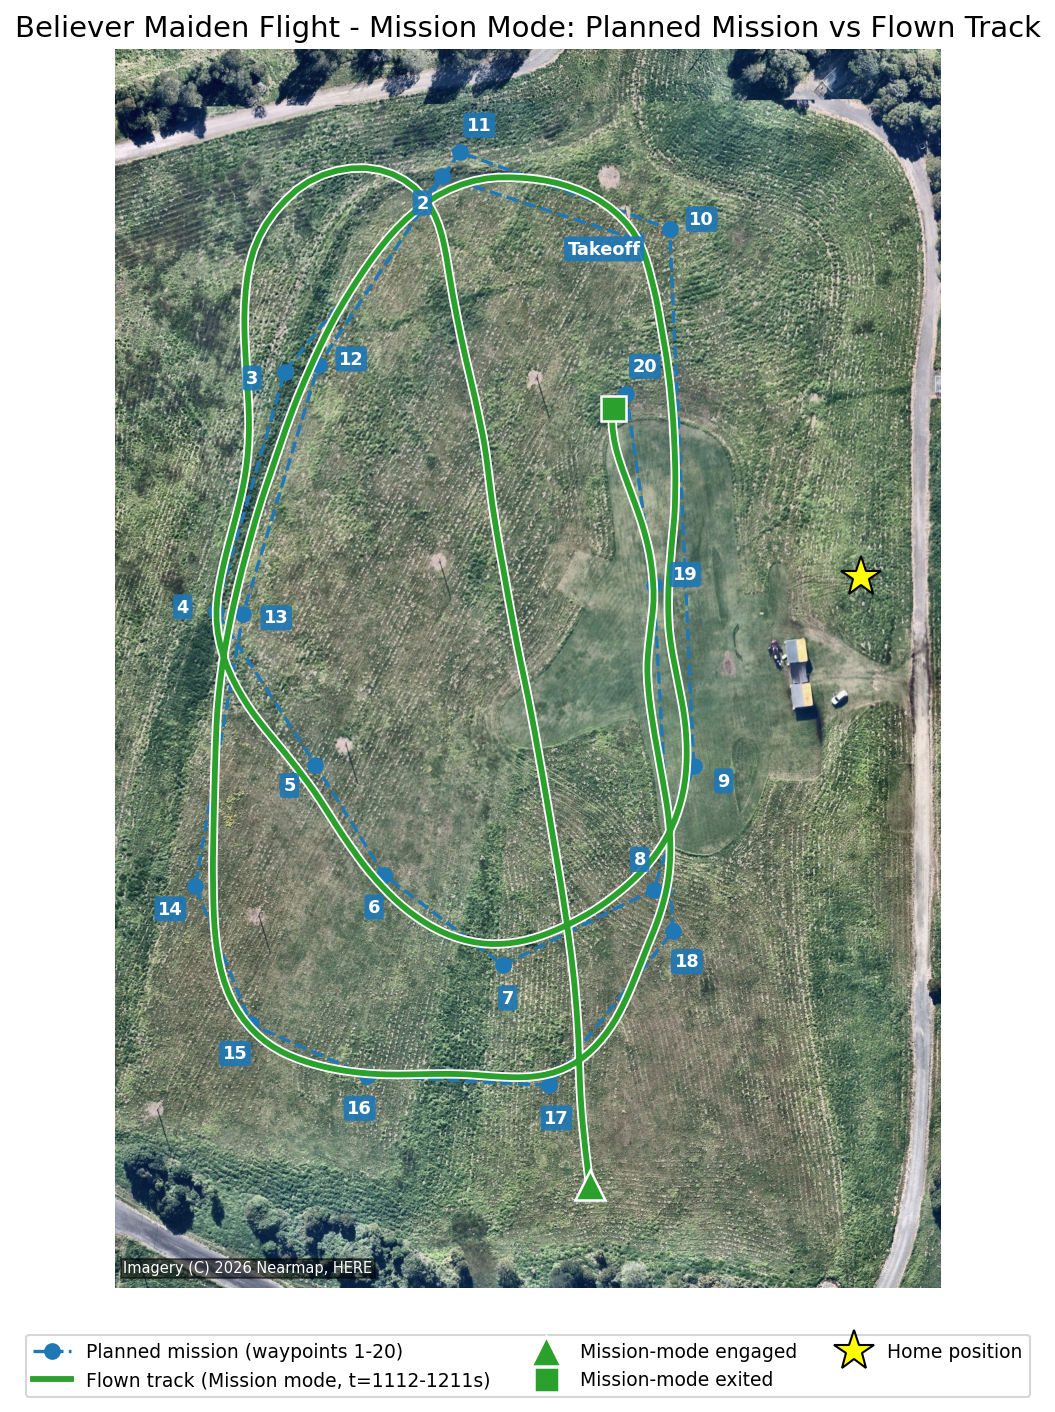
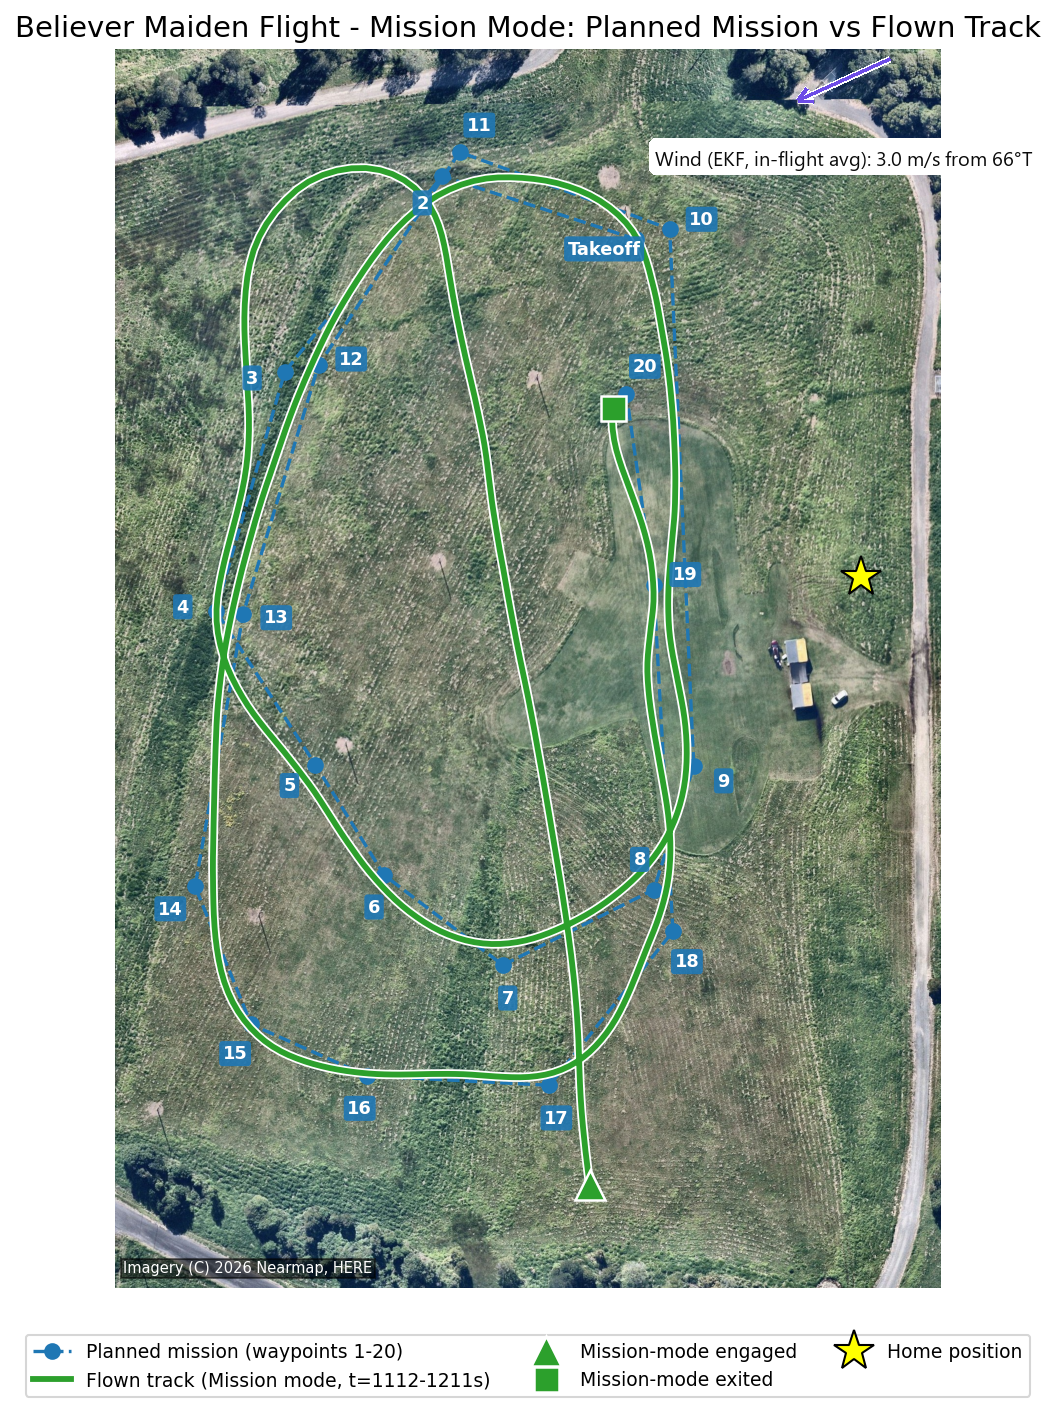
Add the EKF's in-flight-averaged wind vector to the mission-mode plot
Per Julian - annotated the mission-mode planned-vs-actual plot with
PX4's wind estimate (2.96 m/s from 066 deg T), vector-averaged over
the in-flight period only.

Checked the hypothesis that the estimate gets more accurate as the
flight progresses against the EKF's own variance fields rather than
assuming it: doesn't hold up cleanly, variance doesn't converge much
over the flight and the per-sample direction swings over 100 degrees
across different portions of it. Used a proper vector average
(component-wise) instead of averaging the end of the flight alone.

Also corrected the averaging window per Julian's catch: ground time
before takeoff-detected and after landing-detected is excluded, since
the estimator isn't meaningfully running while stationary (confirmed
it reads exactly zero pre-launch, not biased noise) - though in this
case it barely moved the number (2.90 to 2.96 m/s).

Added a cross-reference note in the test report's Mission mode
section and a new open item for cross-checking this estimate against
an independent ground wind measurement, which doesn't exist in the
repo yet.

Changed region(s): [[0.6066, 0.0623, 0.91, 0.1246], [0.7886, 0.0312, 0.8493, 0.0623], [0.9403, 0.0935, 0.9706, 0.1246]]

diff --git a/AI-context/CHANGELOG.md b/AI-context/CHANGELOG.md
@@ -3,6 +3,7 @@
 All notable changes to the Believer project repo are logged here, most recent first.
 
 ## 2026-10-15
+- Added the PX4 EKF's in-flight-averaged wind estimate (2.96 m/s from 066°T) as an arrow annotation on `docs/assets/test-plots/mission-mode-planned-vs-actual-2026-10-11.png`, per Julian. Checked his hypothesis that the estimate gets more accurate as the flight progresses against the EKF's own variance fields first - it doesn't hold up cleanly: variance doesn't converge much over the flight, and the per-sample direction estimate swings over 100° across different portions of it, so there's no strong basis for trusting the end of the flight over any other window. Used a proper vector average (component-wise, not an average of angles) instead. Also corrected the averaging window on Julian's catch: the raw wind estimate is exactly zero during the pre-launch ground-holding period (the estimator isn't meaningfully running while stationary, not biased noise) - excluded ground time before takeoff-detected and after landing-detected, though in this case it barely moved the number (2.90 to 2.96 m/s). Added a cross-reference note to `docs/engineering/test-reports/2026-10-11-maiden-flight.md`'s Mission mode section, and a new `AI-context/open-items.md` item for cross-checking this estimate against an independent ground wind measurement, which doesn't exist in the repo yet.
 - Added a GPS-speed-vs-airspeed cross-check to `docs/engineering/test-reports/2026-10-11-maiden-flight.md` (new section, after "Airspeed validator latched invalid"), per Julian: GPS speed (3D groundspeed magnitude from `vehicle_gps_position`) runs systematically above the raw-sensor indicated airspeed, mean +4.53 m/s (std 2.81) - confirmed as wind, not a fault, by cross-checking against PX4's own independent wind estimate (`airspeed_wind`, actively updating throughout the flight, mean 3.88 m/s, same ballpark). The heading trace also showed the aircraft spent most of the flight in sustained circular flight (consistent with the known `NAV_LOITER_RAD` = 50m loiter configuration), which is favourable for the EKF's wind observability. Confirmed precisely, from the log's own `commander` messages, that the near-zero stretch at the start of the plot is the handler holding the aircraft before the throw: armed at t=0.11s, `Takeoff detected` at t=32.73s (matching the existing Launch section's t=32.6s). Added the supporting static plot (`docs/assets/test-plots/maiden-flight-gps-vs-airspeed-2026-10-11.png`) and a self-contained, fully offline interactive version of the same chart (`.html`, Plotly, zoom/hover, embedded data and library - no external hosting) alongside it. An earlier attempt published this as an externally-hosted claude.ai artifact; Julian flagged that hosting location as inappropriate for this repo (not the use of HTML itself), so it was deleted and rebuilt as a local, git-tracked file instead. Caught and fixed a real bug along the way: `log.start_timestamp` isn't guaranteed to be at or before every topic's first sample (the GPS topic's first sample here predated it by ~0.1ms), and subtracting it from a `uint64` timestamp array that starts earlier wraps around silently - broke `np.interp`'s monotonicity assumption and produced a nonsense first-pass result (-13 m/s mean difference instead of the correct +4.53 m/s). Fixed by using the true minimum timestamp across the topics actually in use, with a monotonicity assertion as a guard.
 
 ## 2026-10-13

diff --git a/docs/engineering/test-reports/2026-10-11-maiden-flight.md b/docs/engineering/test-reports/2026-10-11-maiden-flight.md
@@ -169,9 +169,11 @@ No control surface (`MAIN1`/`MAIN2` V-tail, `MAIN3`/`MAIN5` ailerons) was pegged
 
 **The uploaded mission was replanned at the field and no longer matches the repo's backup.** The real mission (recovered from the Pixhawk's onboard mission storage and cross-checked against the flight's own telemetry to sub-metre precision) has 28 items, not the 32 in `docs/operations/backups/Pixhawk Mission Backup/maiden-mission.plan` (Section 5 of the test plan): item 0 is a camera-mode setup command (no coordinates); item 1 is Takeoff; items 2-20 are 19 waypoints, all at **50m relative altitude** (not 40m as the stale backup has it); items 21-25 are a landing-sequence marker plus speed/camera commands (no coordinates); item 26 is a Loiter-to-Alt descent point 405m from the pattern; item 27 is an actual **Land** item. The old backup's "no landing item" description no longer applies to what's on the aircraft.
 
-![Planned mission (waypoints 1-20) vs actual flown track, overlaid on Nearmap aerial imagery of the BNEMAC field (captured 2026-06-22)](../../assets/test-plots/mission-mode-planned-vs-actual-2026-10-11.png)
+![Planned mission (waypoints 1-20) vs actual flown track, overlaid on Nearmap aerial imagery of the BNEMAC field (captured 2026-06-22), with the in-flight-averaged wind vector annotated](../../assets/test-plots/mission-mode-planned-vs-actual-2026-10-11.png)
 
 The flown track (green) tracks the real mission (blue) closely - mean deviation 17.7m, well within normal fixed-wing turn/overshoot tolerance. The long diagonal leg from the "Mission-mode engaged" marker (bottom) up to the pattern is expected PX4 behaviour, not an anomaly: the aircraft was already airborne and physically near waypoints 15-17 when Mission mode was engaged, and PX4 resumed at waypoint 2 (the first real waypoint after Takeoff) rather than restarting from the ground - so it had to transit across the pattern to reach it first.
+
+The arrow annotated on the plot is the PX4 EKF's own wind estimate (`airspeed_wind`), vector-averaged over the in-flight period only (takeoff detected to landing detected - ground time before and after excluded, since the estimator isn't meaningfully observing wind while stationary): **2.96 m/s from 066°T**. See the GPS speed vs. raw-sensor airspeed cross-check above for the full method and the caveat that the underlying per-sample estimate wanders in direction over the flight (not a single stationary value) - this is a time-averaged simplification, not an instant-by-instant true wind. Not yet cross-checked against an independent ground measurement (e.g. a site anemometer) - see `AI-context/open-items.md`.
 
 This is a more significant correction than just altitude, and the repo's mission backup, the test plan's Section 5, and anything else describing the old 32-item/40m mission are now known to be stale. Not yet corrected - flagged in `AI-context/open-items.md` pending a decision on how to regenerate `maiden-mission.plan` from this validated data.
 

diff --git a/AI-context/open-items.md b/AI-context/open-items.md
@@ -48,3 +48,4 @@ Information gaps still to confirm with the user. Resolved items (Telem_1 protoco
 - [ ] Right motor has a bad bearing, found during post-flight inspection (2026-10-11) - needs replacing/rectifying before the next flight. Unknown how long it had been degraded or whether it affected the maiden flight's thrust balance
 - [ ] Maiden flight (2026-10-11): Stabilized mode felt "less punchy" on throttle to the pilot than Manual/Acro. Confirmed from the log that the throttle signal path itself is identical across all three modes (same linear stick-to-motor-command mapping) - the likely explanation is the attitude controller damping out thrust-coupling disturbance rather than anything throttle-specific, but this is inference, not a separately measured confirmation. See `docs/engineering/test-reports/2026-10-11-maiden-flight.md`
 - [ ] The mission was replanned at the field on 2026-10-11 and `docs/operations/backups/Pixhawk Mission Backup/maiden-mission.plan` (and the test plan's Section 5 description - 32 items, 40m altitude, no landing item) are now confirmed stale: the real onboard mission (recovered and validated from the Pixhawk's `dataman` file, see `docs/engineering/test-reports/2026-10-11-maiden-flight.md`) has 28 items, 50m relative altitude, and an actual landing sequence (DO_LAND_START, Loiter-to-Alt, Land). Need a decision on regenerating `maiden-mission.plan` (and the geofence backup, same dataman method) from this validated data and propagating the correction through the test plan and parameter-change-log
+- [ ] Maiden flight (2026-10-11): the PX4 EKF wind estimate (2.96 m/s from 066°T, in-flight vector average - see the GPS speed vs. airspeed cross-check in `docs/engineering/test-reports/2026-10-11-maiden-flight.md`) has not been cross-checked against any independent ground measurement (e.g. a handheld anemometer at BNEMAC on the day, or the nearest BOM station's historical observation for that date/time). Julian to confirm whether any such reading exists; if not, worth bringing a handheld anemometer to the next flight specifically to validate this estimation method
